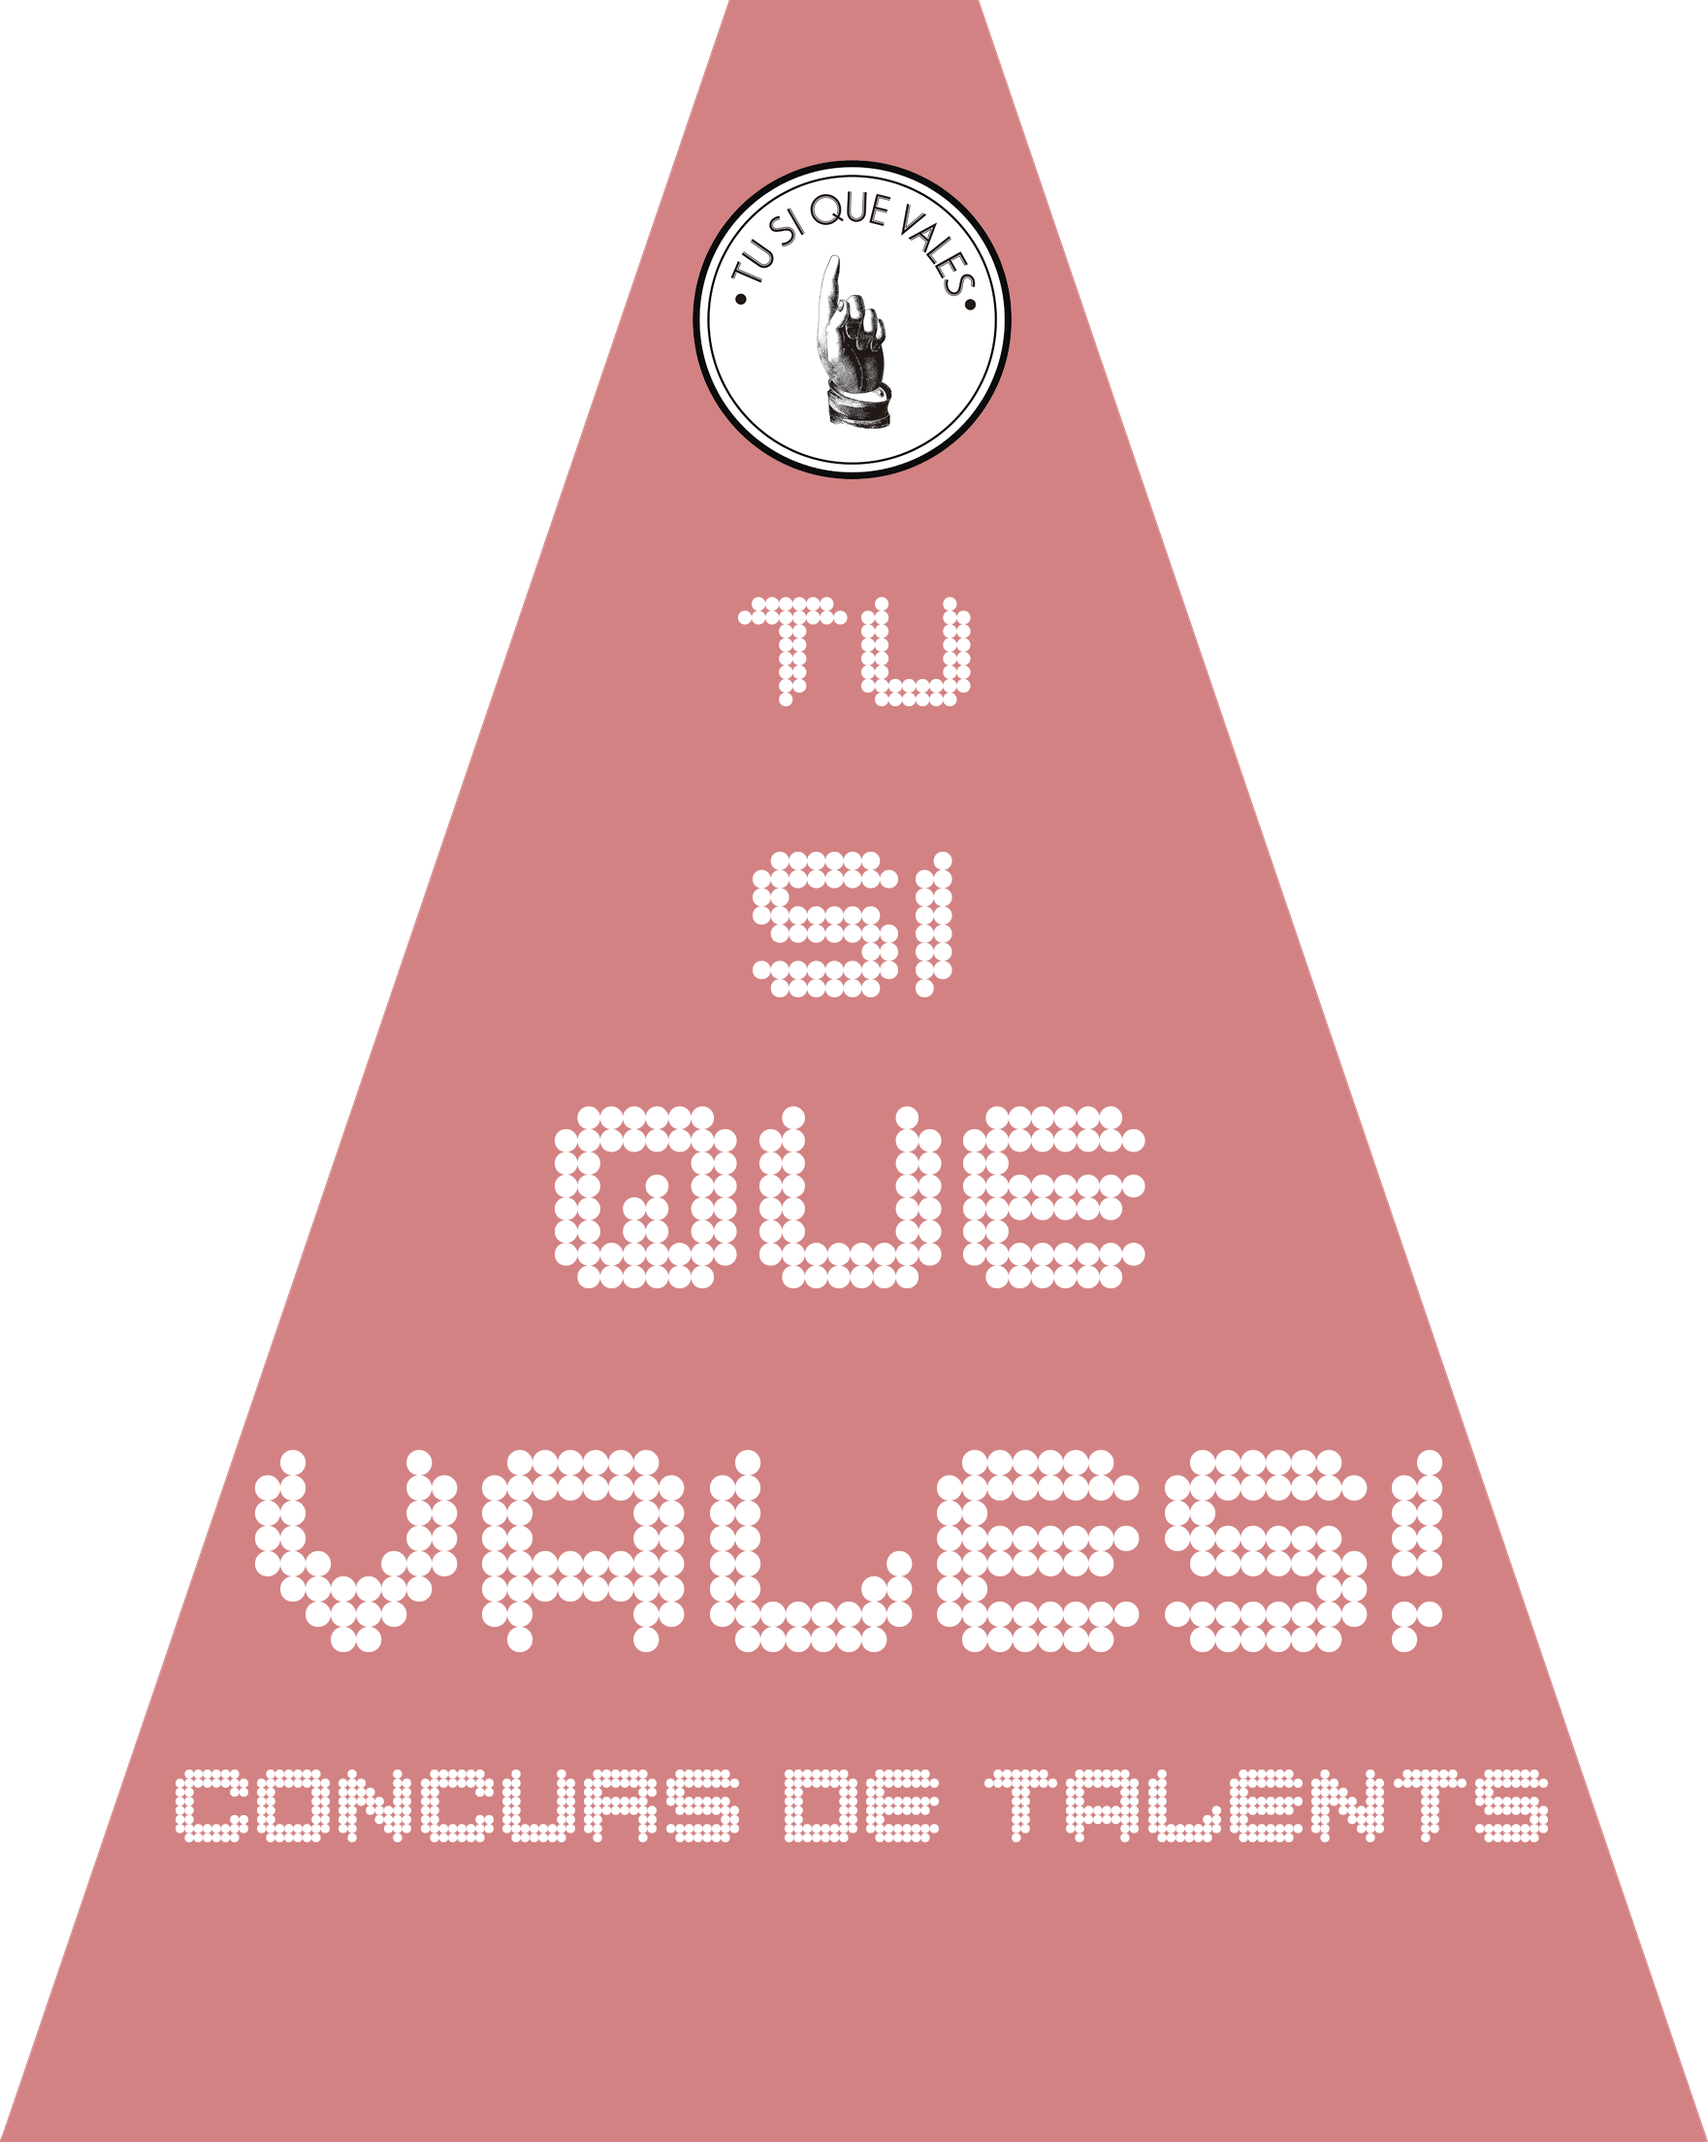
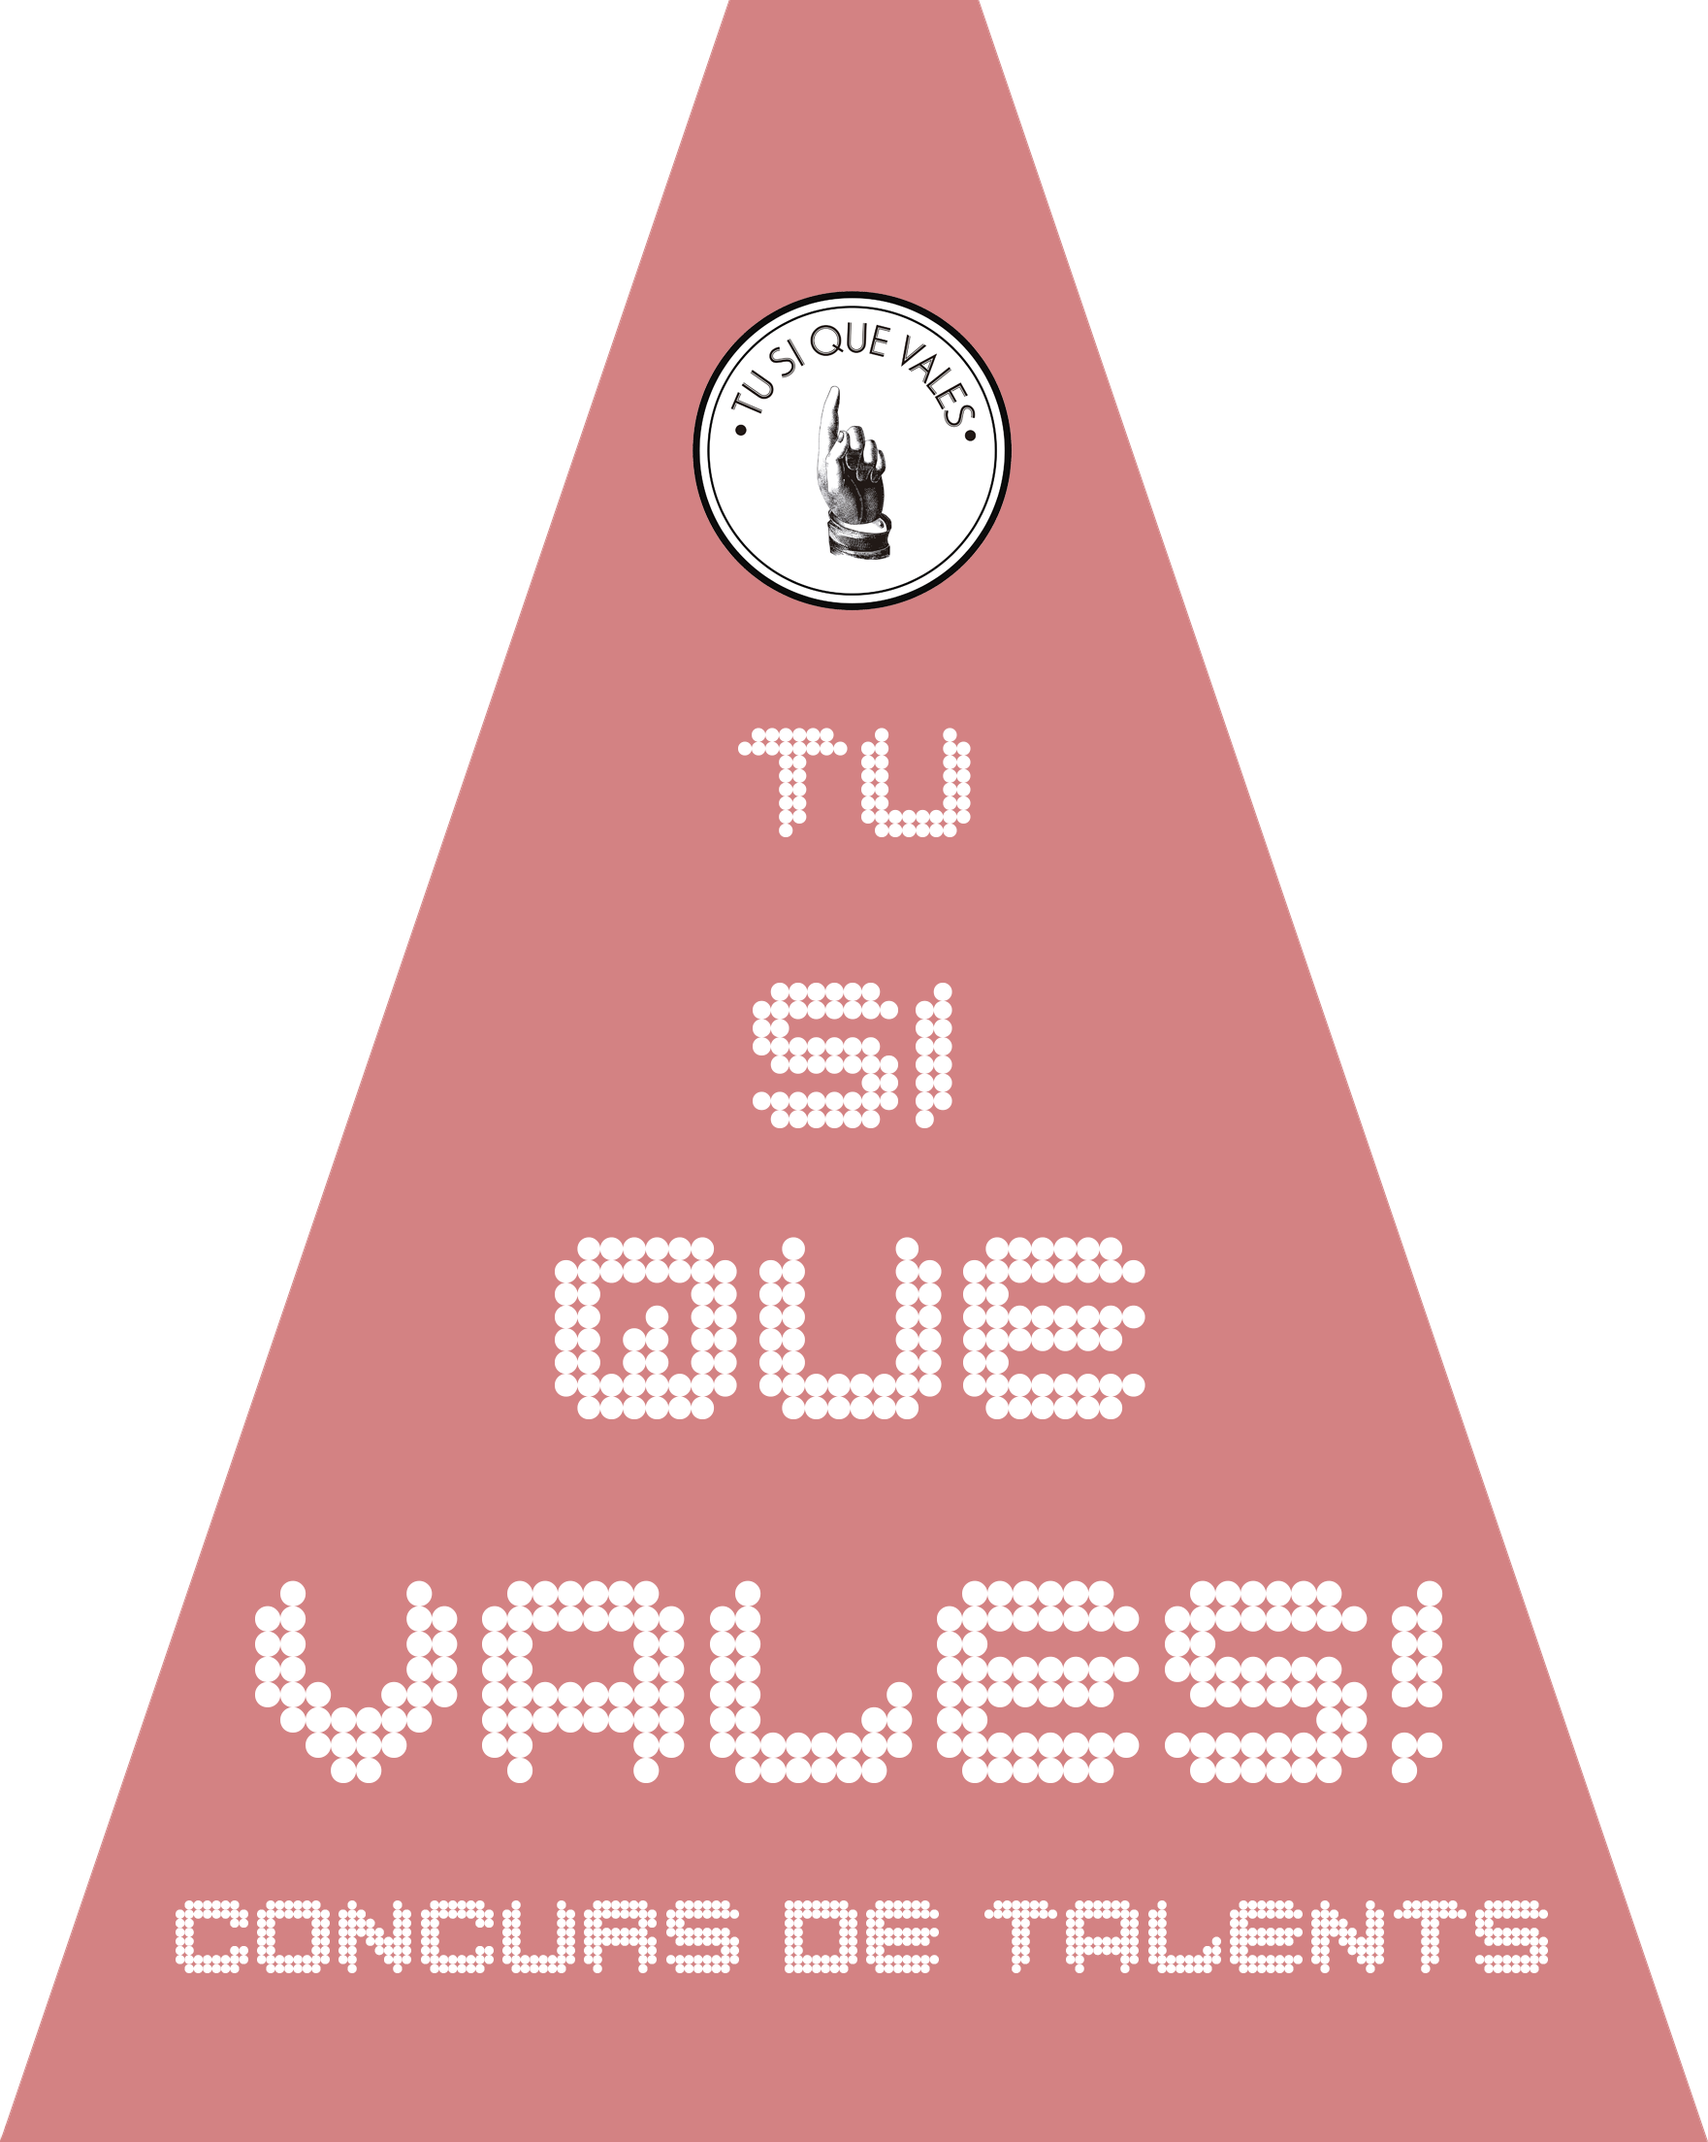
divInicio centrado

Changed region(s): [[0.0937, 0.0625, 0.9057, 0.9375]]

diff --git a/css/style.css b/css/style.css
@@ -56,14 +56,9 @@ div.bg-light{
 .mrCss{
 	margin-right: 95px;
 }
-/*.divInicio{
-	align-items: center;
-	text-align: center;
+.divInicio{
 	background-color: #98403c;
-	width: 100%;
-	height: 1080px;
-
-}*/
+}
 
 .white{
 	background-color:#FFFFFF;

diff --git a/index.php b/index.php
@@ -46,10 +46,11 @@
 		<?php
 		require("models/videos.php");
 		?><!-- inicio Pàgina principal -->
-		<div id="divJsInicio" class="row">			
-			<div class="divInicio col-12">
-				<!-- <img src="img/TSQVDptc-1.png" class="img-fluid"> -->
-			</div>
+
+		<div class="row divInicio">
+			<div class="col"></div>
+			<div class="col-5"><img src="img/TSQVDptc-1.png" class="img-fluid"></div>
+			<div class="col"></div>
 		</div>
 
 		<header>
